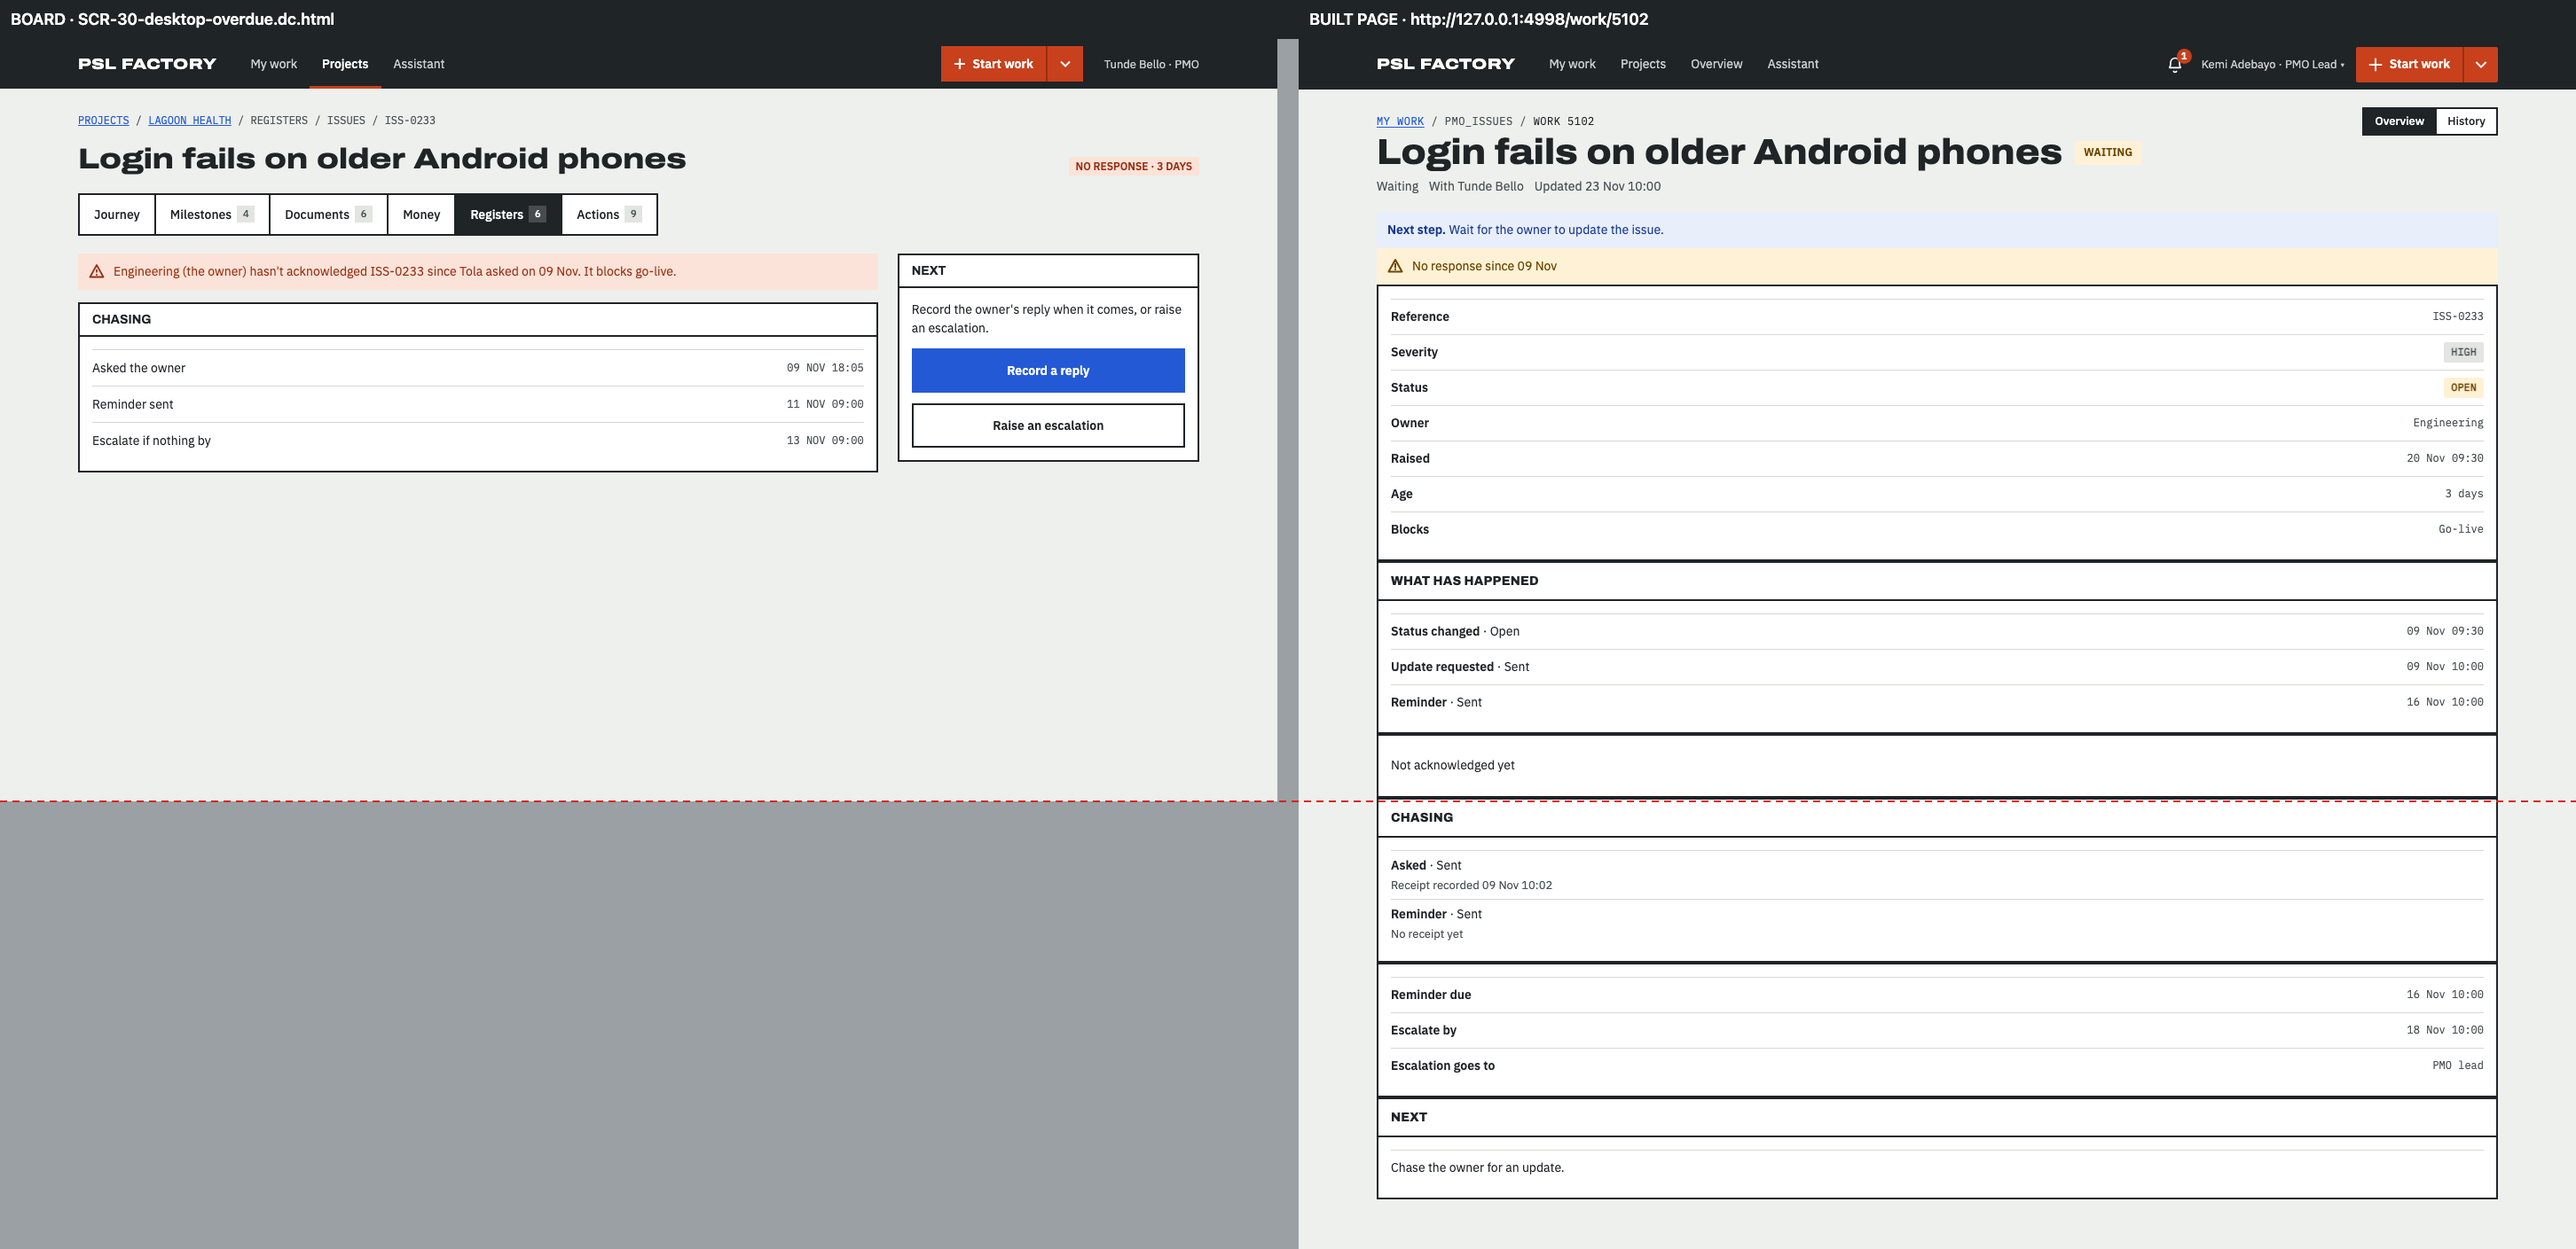
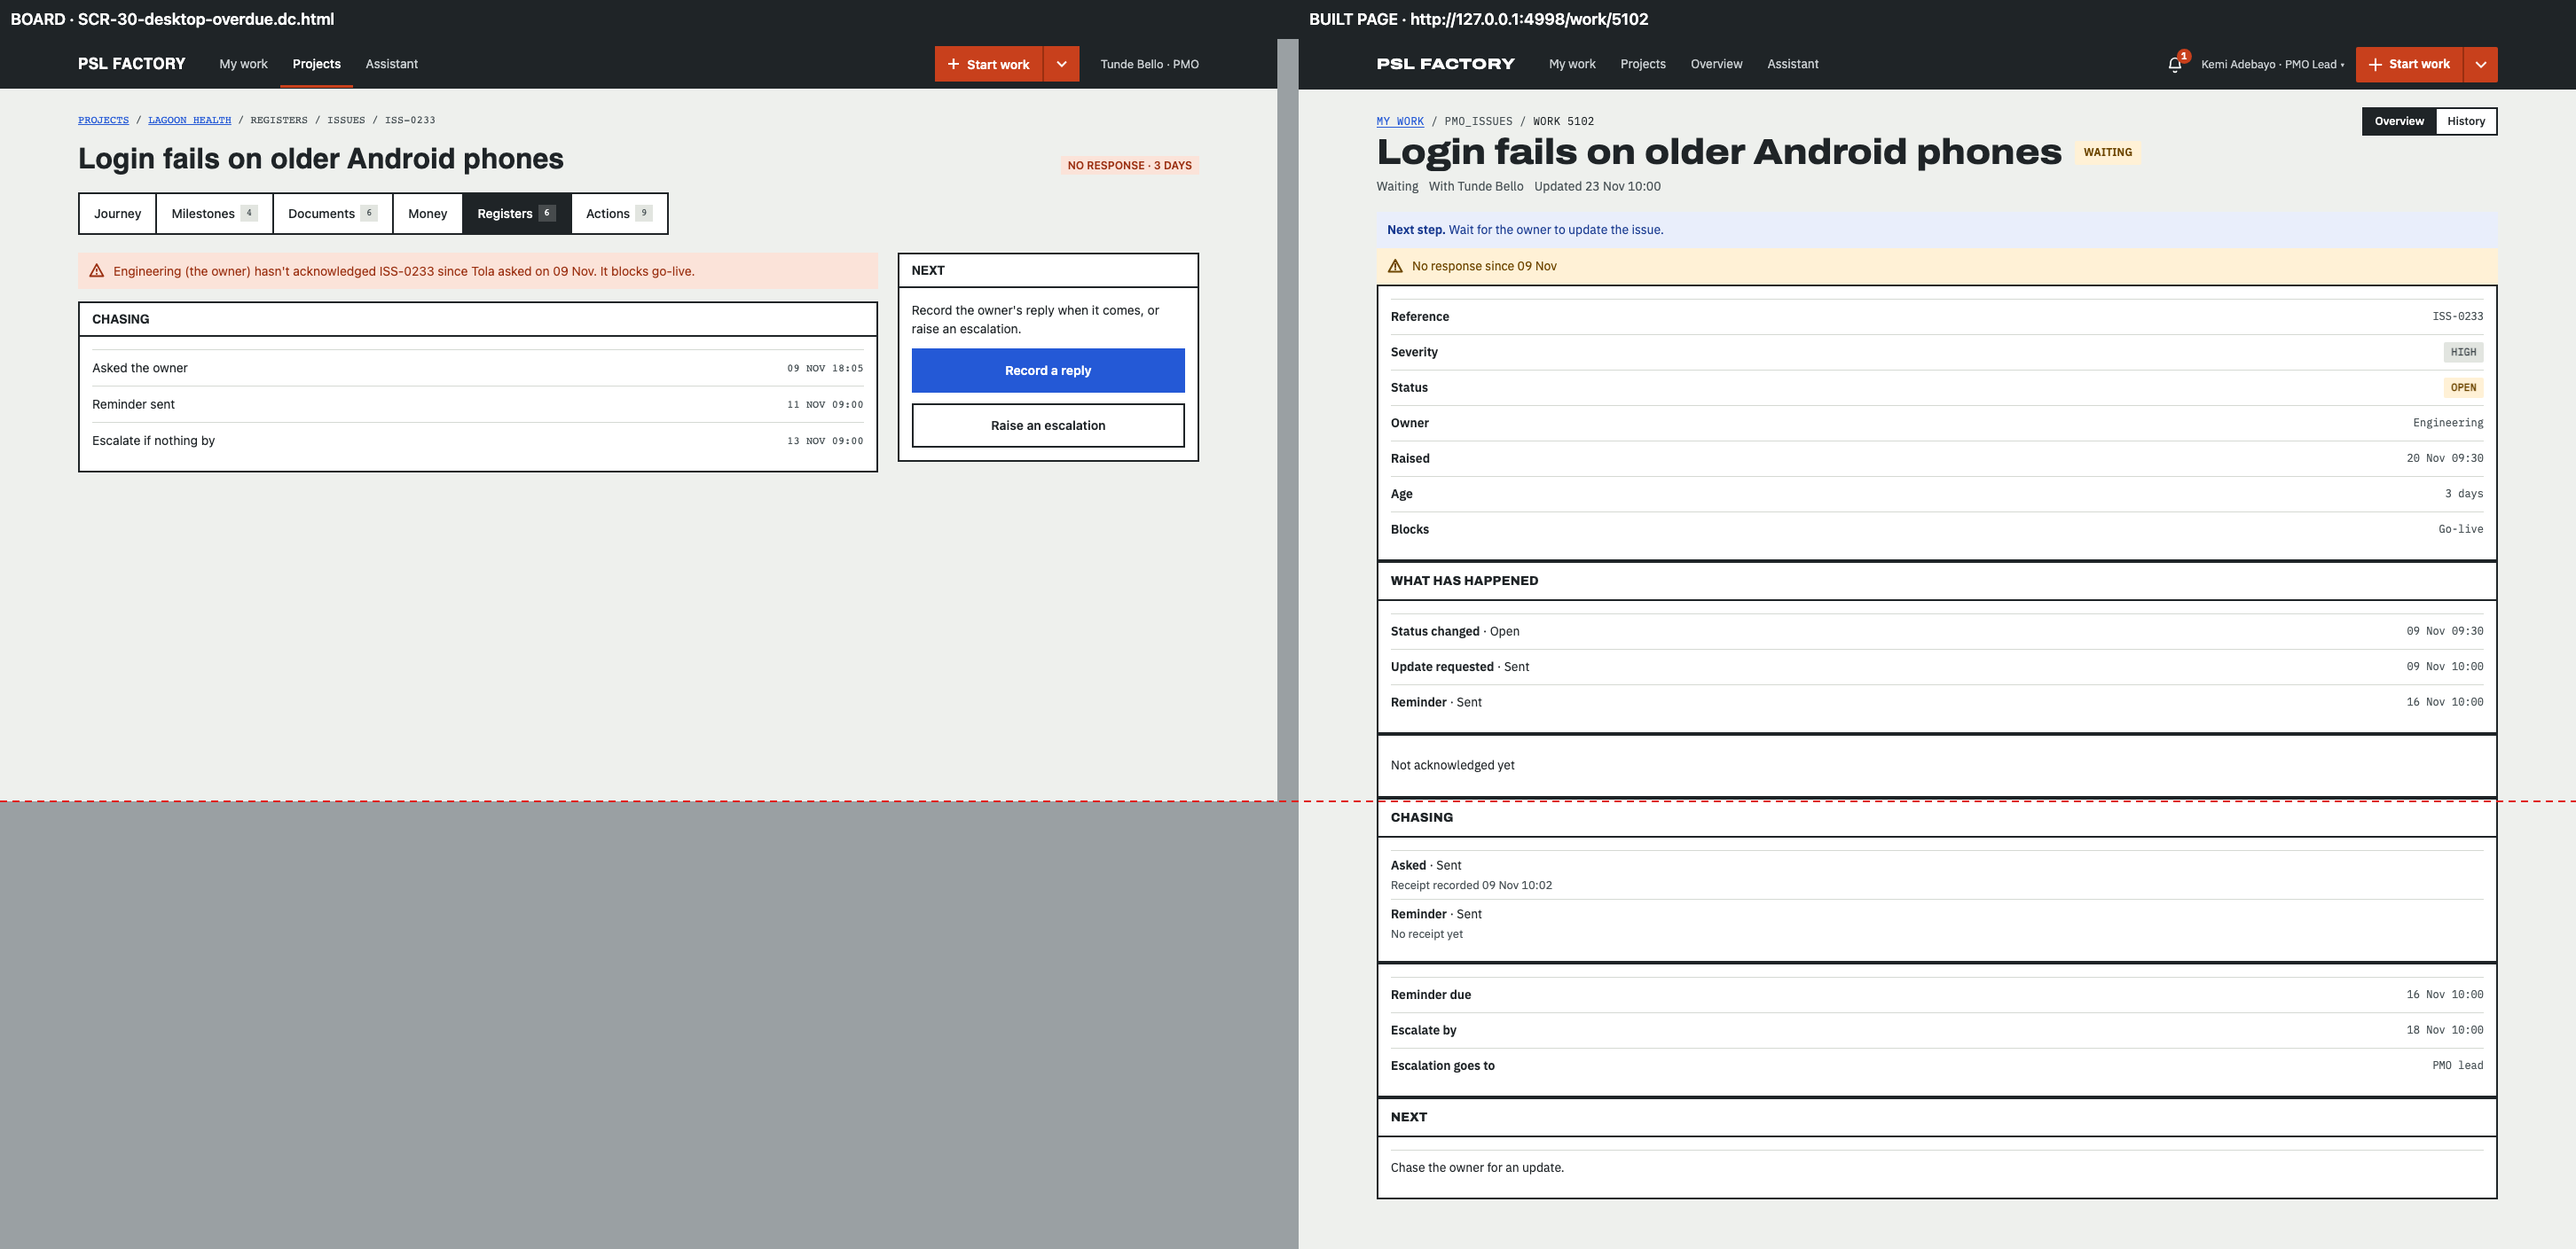
F-111: round 2 UI PASS after the exceptions fix; LD-Q7 (exceptions and eight D-83 waivers) batched

diff --git a/delivery/features/F-111/round-2/review-ui.md b/delivery/features/F-111/round-2/review-ui.md
@@ -1,21 +1,21 @@
-VERDICT: CHANGES
+VERDICT: PASS
 COMMIT: 8a5c09fe624b12c209c2a70cb1f75c8a38238586
 REVIEWER: reviewer-ui
 AUTHORITY: UI design reviewer
 
 ## Summary
 - UI-1-1 and UI-1-2 verified. UI-1-3 (amber banner) and UI-1-4 (frame next-step line) are accepted risk under D-202: counted as exceptions, not findings.
-- Fidelity run, 8 SCR-30 boards, with the builder's 57-entry fidelity-exceptions.json. The tool still FAILs every board: visual is 74.8 to 84.4 (needs 90, so D-83 waivers are required), and four desktop boards miss 100% coverage by one or two items that have no matching exception (UI-2-1, UI-2-2).
+- Fidelity run, 8 SCR-30 boards, with the builder's 57-entry fidelity-exceptions.json. The tool still FAILs every board: visual is 74.8 to 84.4 (needs 90, so D-83 waivers are required), and after the exceptions fix coverage is 100% on all eight.
 - Coverage with exceptions: desktop default 97.1, overdue 96.4, no-owner 92.3, verified 96.2; all four phone boards 100.
 - Production copy of head built under the lock (API_ORIGIN 4999 confirmed in routes-manifest), Next on 4998 (pid 93070), mock on 4999 (pid 92641); both stopped, copy deleted. Outputs: /private/tmp/claude-501/-Users-Hunchoo-psl-factory/f3d2f47a-b311-4962-a74a-1c6348f1d696/scratchpad/fidelity/<board>-<width>/ (report.json, report.html, side-by-side.png). Pages: 5101 default, 5102 overdue, 5103 no-owner, 5104 verified; cookie psl_mock_persona=pmo_lead.
 
 ## Scores
 | Board | Width | Coverage | With exceptions | Visual | Missing / moved / extra | Unexcepted |
 |---|---|---|---|---|---|---|
-| SCR-30-desktop | 1440 | 50% | 97.1% | 74.8 | 17 / 5 / 18 | (side panel) |
-| SCR-30-desktop-overdue | 1440 | 39.3% | 96.4% | 78.2 | 17 / 1 / 18 | (side panel) |
-| SCR-30-desktop-no-owner | 1440 | 34.6% | 92.3% | 84.4 | 17 / 0 / 18 | (side panel), NEXT |
-| SCR-30-desktop-verified | 1440 | 38.5% | 96.2% | 83.6 | 16 / 1 / 17 | (side panel) |
+| SCR-30-desktop | 1440 | 50% | 100% | 74.8 | 17 / 5 / 18 | none |
+| SCR-30-desktop-overdue | 1440 | 39.3% | 100% | 77.6 | 17 / 1 / 18 | none |
+| SCR-30-desktop-no-owner | 1440 | 34.6% | 100% | 84.4 | 17 / 0 / 18 | none |
+| SCR-30-desktop-verified | 1440 | 38.5% | 100% | 83.6 | 16 / 1 / 17 | none |
 | SCR-30-mobile | 390 | 17.6% | 100% | 76.5 | 14 / 1 / 15 | none |
 | SCR-30-mobile-overdue | 390 | 50% | 100% | 76.9 | 3 / 1 / 16 | none |
 | SCR-30-mobile-no-owner | 390 | 33.3% | 100% | 75.1 | 4 / 0 / 14 | none |
@@ -24,8 +24,8 @@ AUTHORITY: UI design reviewer
 The visual gap is the same on all eight: the board is a short two-column (desktop) or single-card (phone) screen with the side panel and Tola; the built page is the shared frame with a taller vertical facts list and bordered section panels. No horizontal overflow at 390 (side-by-side read).
 
 ## Findings
-- UI-2-1 | blocking | low | design engineer | The "(side panel)" board item (role complementary, empty name) is missing on all four desktop boards and not matched by the exception file: the entry is named "(side panel)", but the tool's real name for it is the empty string. Change that entry's name to "" (it is hidden write forms, so keep it in the file). Not a page defect.
-- UI-2-2 | blocking | low | design engineer | SCR-30-desktop-no-owner draws a "NEXT" heading that is missing from the page and has no exception. The builder shows the no-owner sentence once and skips the Next section (UX-1-4 fix), so the heading and its Set an owner action are not drawn. Add an exception "text / NEXT" (category: UX-1-4, text shown once; Set an owner is already excepted). Alternatively draw a Next heading.
+- UI-2-1 | resolved (see Verified) |  | low | design engineer | The "(side panel)" board item (role complementary, empty name) is missing on all four desktop boards and not matched by the exception file: the entry is named "(side panel)", but the tool's real name for it is the empty string. Change that entry's name to "" (it is hidden write forms, so keep it in the file). Not a page defect.
+- UI-2-2 | resolved (see Verified) |  | low | design engineer | SCR-30-desktop-no-owner draws a "NEXT" heading that is missing from the page and has no exception. The builder shows the no-owner sentence once and skips the Next section (UX-1-4 fix), so the heading and its Set an owner action are not drawn. Add an exception "text / NEXT" (category: UX-1-4, text shown once; Set an owner is already excepted). Alternatively draw a Next heading.
 - UI-2-3 | non-blocking | low | frontend | The Acknowledged / Not acknowledged line is a heading-less bordered panel (for example "Not acknowledged yet" on 5102, "Acknowledged ... Owner replied by email" on 5101) between What has happened and Chasing. Reads as a stray box. Give it a heading or fold it into the facts.
 
 ## Exception list (57 entries plus 2 proposed), by group
@@ -47,14 +47,17 @@ Copy
 - keep (sample data, 16 entries): "09 Nov", "11 Nov 16:40", "10 Nov 09:15", "09 Nov 18:02", "ISS-0240", "Owner update", "Owner acknowledged", the "(recorded by PM)" line, the Tola investigation line, and next-step sentences with the board's fixture wording. The page shows served values (fixture dates 20 Nov).
 - keep (D-202 accepted, extra items, not entries): frame "Next step." line, "Waiting / With ... / Updated ...", Overview / History switch, alerts bell, account menu, and the My work breadcrumb.
 - Recommendation: keep all; no copy gap remains that the data can fix.
-- Net: 56 of the 57 entries are still needed (the no-owner "NEXT" and side panel add two corrections); "BLOCKS" can be dropped.
+- Final file (coordinator fix): "BLOCKS" dropped, side panel entry named "", "NEXT" added. All remaining entries are keep; none is a fixable gap. Everything stays pending the design engineer.
 
 ## Verified
+- UI-2-1 | verified | re-run on the four desktop boards after the exceptions fix: side panel entry (name "") matched; coverage 100% with exceptions on all eight boards.
+- UI-2-2 | verified | "NEXT" entry added; SCR-30-desktop-no-owner coverage 100% with exceptions.
+- Re-run (head 8a5c09fe, desktop only): visual 74.8, 77.6, 84.4, 83.6; coverage with exceptions 100 on every board. The tool still reports FAIL only because visual is below 90: needs D-83 waivers (eight scores in the table). Nothing fixable remains; layout (strip vs list), banner tone and frame next step are accepted under D-202 / F-95. PIDs this run: mock 99673, next 99674, stopped; copy deleted; disk 5.8 GB free.
 - UI-1-1 | verified | /work/5101 and the other states: Blocks ("Go-live") is the last row of the one facts block with Reference to Age. Still a vertical list, not the strip (see layout note).
 - UI-1-2 | verified | 5101, 5102, 5107 Chasing rows read "Asked · Sent / Receipt recorded ..." and "Reminder · Sent / No receipt yet"; no "Time unknown".
 - UI-1-3 | accepted risk (D-202) | amber banner on 5102 remains; counted as an exception.
 - UI-1-4 | accepted risk (D-202) | frame "Next step" line above the banner remains; counted as an exception.
 
 ## Notes
-- Visual is below 90 on every board, so each needs a D-83 waiver: 74.8, 78.2, 84.4, 83.6 (desktop); 76.5, 76.9, 75.1, 76.8 (phone). No exception is marked approved by me; approved_by stays "builder proposal, pending design engineer".
+- Visual is below 90 on every board, so each needs a D-83 waiver: 74.8, 77.6, 84.4, 83.6 (desktop); 76.5, 76.9, 75.1, 76.8 (phone). No exception is marked approved by me; approved_by stays "builder proposal, pending design engineer".
 - The phone runs could not reach Google Fonts (fallback fonts), so text widths may differ slightly.

diff --git a/delivery/connect/questions-batch.md b/delivery/connect/questions-batch.md
@@ -744,6 +744,13 @@ F-119 round 2, head `f39d6dda`. The design check ran once on a production build.
 ### LD-Q6 · F-119 · The checklist strip says "(saved <date>)". Keep "saved" or change to "held"?
 The spec and its browser test say "saved". Technical review (TECH-1-5) asked whether "held" reads better for a closure check that is held. **Recommendation:** keep "saved", as the spec says.
 
+### LD-Q7 · F-111 · Issue follow-up (SCR-30, 8 boards): sign the 57 design exceptions and eight visual waivers?
+F-111 round 2, head `8a5c09fe`, ships read-only for the demo under D-202 ("Ship simpler for demo"). The design check ran once on a production build, with a desktop re-run after two entries were corrected. Coverage is 100% after exceptions on all eight boards. Visual scores are under 90 but above D-83's floor of 70: desktop 74.8 default, 77.6 overdue, 84.4 no-owner, 83.6 verified; phone 76.5, 76.9, 75.1, 76.8. The UI reviewer found nothing fixable left. Side-by-sides: `delivery/features/F-111/round-2/fidelity/`. Exceptions: `delivery/features/F-111/fidelity-exceptions.json`.
+- **Layout (recommend keep all):** the frame's breadcrumb, back link, persona, tab bar and "NEXT" card (lane C frame, D-202); the hidden write side panel (owner follow-up, post update, set owner, record reply, raise escalation, issue register link), which is F-111B on F-87. Facts as a vertical list, not the board's four-cell strip, accepted under D-202 until F-95.
+- **Colour (recommend keep):** the severity glyph shows the live tag (D-187). The amber banner where the board has red is accepted under D-202 until F-95.
+- **Copy (recommend keep all):** live status words (D-187 Q1 A); Tola hidden (D-182, D-185); the board's sample dates, ids and sentences; the frame's own next-step line (D-202).
+- **Recommendation:** "Sign all": sign the 57 exceptions and the eight D-83 visual waivers.
+
 ## Answers, batch 1 (23 Nov 2026, D-182)
 
 Every recommended option above is accepted ("Hide, accept all recs"), including LC-Q1 (hide until backend), F-65 (as recommended) and F-76 (read-only list now). Lanes: unpark these features and build them as their specs recommend.
